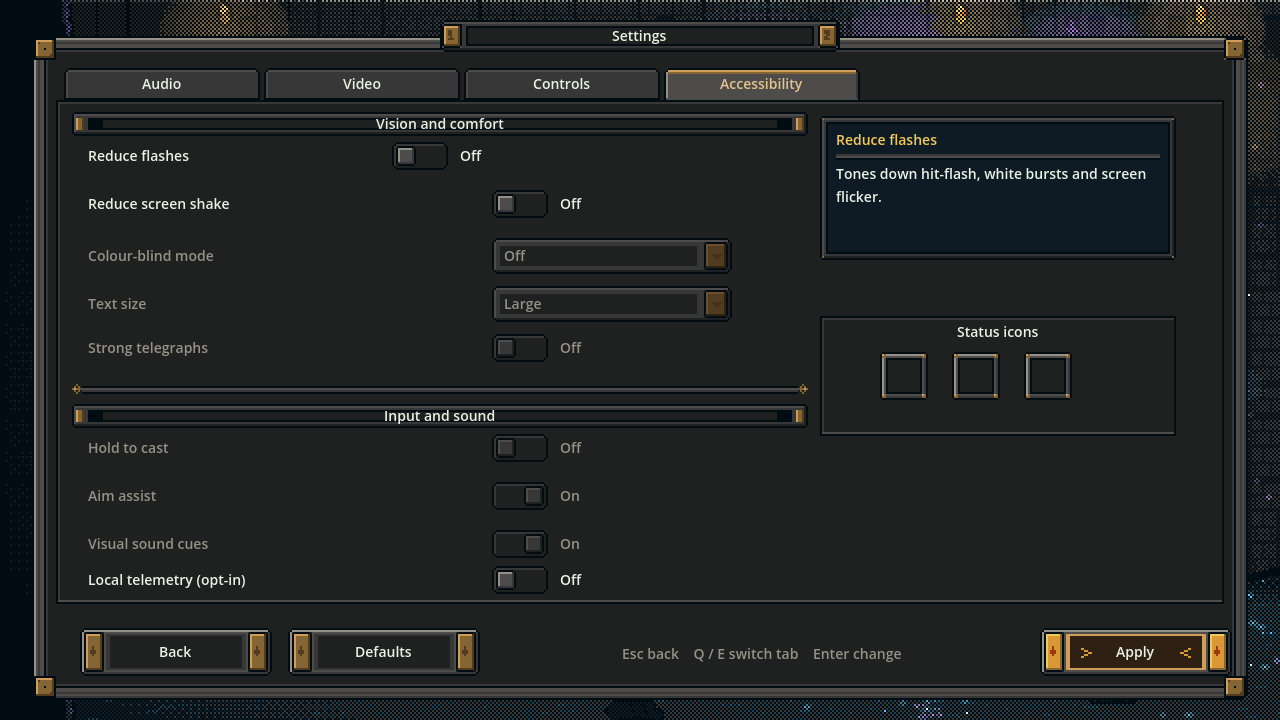
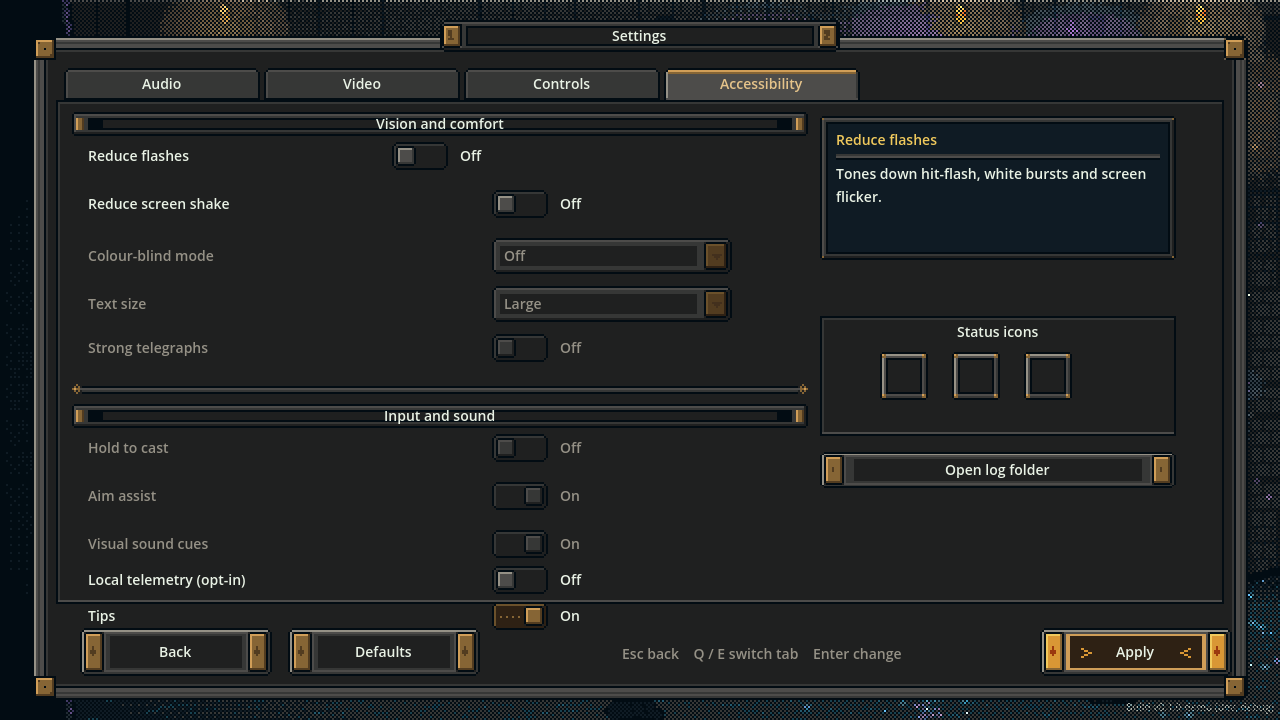
AD-185: UI matrix shots for every tip, pause Controls and Tips toggle; ONBOARDING.md

diff --git a/docs/demo/ONBOARDING.md b/docs/demo/ONBOARDING.md
@@ -1,0 +1,43 @@
+# Friends demo onboarding (AD-185, Gate G2)
+
+Goal of Gate G2: a new player starts, moves, dashes, casts, reads a telegraph, opens the editor and crafts one spell within about 5 minutes without help.
+
+## Step -> tip -> trigger
+
+| Step | Tip id | Trigger |
+| --- | --- | --- |
+| Start | `spells_are_runes` | Sigil Desk prelude (AD-130) is active and the editor is not open; the desk panel steps teach the first spell. |
+| Move, aim, cast, dash | `room1` | First fight room of a run (`sequence_index == 0`). Text shows the current bindings (move, cast, dash, aim). |
+| Read a telegraph | `telegraph` | First enemy windup. Shown for `onboarding_seconds.telegraph` (6 s, in `flavour_v1.json`), then `room1` returns if it was interrupted. |
+| Open the editor and craft | `spells_are_runes`, `workshop_empty_slot`, `test_on_dummy` | Desk panel steps; empty slot hint and the test-on-dummy hint in the workshop editor. |
+| First reward | `first_reward` | Room cleared and the reward is not collected yet. |
+| First workshop | `first_workshop` | Entering the workshop outside the prelude. |
+| Wet then lightning | `wet_try_lightning` | Reaction hint after the matching status in a fight. |
+
+Tip texts live in `world/data/flavour_v1.json` (`onboarding`, `onboarding_seconds`) and `i18n/`.
+
+## Audit outcome
+
+- Already existed: `room1`, `first_reward`, `first_workshop`, the hints (`workshop_empty_slot`, `test_on_dummy`, `wet_try_lightning`) and the AD-130 Sigil Desk prelude.
+- Added: binding-aware `room1` strip, `telegraph`, `spells_are_runes` pointer, the one-tip rule, Settings > Accessibility Tips on/off, and a Controls page reachable from the pause menu.
+- Fixed: the `room1` trigger waited for an `s1_r1` room, which `run_v2` does not have. It now fires on `sequence_index == 0`.
+
+## Rules
+
+- At most one tip is on screen.
+- Each tip shows once per profile (`stats.onboarding_seen`).
+- Settings > Accessibility > Tips on/off does not use tips up.
+- Controls opens from pause and reads the live bindings.
+- The new wording is proposed, not approved.
+
+## UI matrix shots
+
+```
+bash tools/ui_matrix.sh --states "tip_room1 tip_telegraph tip_wet_try_lightning tip_first_reward tip_first_workshop tip_workshop_empty_slot tip_test_on_dummy tip_spells_are_runes pause_controls settings_access" --sizes "1024x768 1280x720 1920x1080"
+```
+
+Shots are in `docs/ui/matrix/<size>/<state>.png` with contact sheets next to them. The `tip_*` states pin one tip on a debug build only.
+
+## Not done yet
+
+The 5-minute human test with a friend has not been run, so Gate G2 is not confirmed.

diff --git a/docs/README.md b/docs/README.md
@@ -18,6 +18,7 @@ Godot 4.7.1 stable (pinned) GL Compatibility M0–M3 playable prototypes are imp
 | [M4_validation.md](M4_validation.md) | M4 code, regression/stress/telemetry commands, observability boundaries and deferred acceptance |
 | [demo/README.md](demo/README.md) | AD-157 closed demo: Windows/Linux export commands, headless route check, tester opt-in logs and what to send back |
 | [demo/FEEDBACK_FORM.md](demo/FEEDBACK_FORM.md) | AD-184 friends feedback questions, F8 reports and how to send the reports folder |
+| [demo/ONBOARDING.md](demo/ONBOARDING.md) | AD-185 onboarding audit: step -> tip id -> trigger, Controls page, Tips toggle |
 | [artifacts.md](artifacts.md) | AD-143 run artifacts: data file, hooks, max held, sources, proposed numbers |
 | [meta_progress.md](meta_progress.md) | AD-145 meta progression: profile v2 schema, discoveries, milestone unlocks, Compendium |
 | [GDD_v1_conformance.md](GDD_v1_conformance.md) | GDD v1.0 rule → status (OK/GAP) → board row tracker for Round AD-R1 |

diff --git a/docs/demo/README.md b/docs/demo/README.md
@@ -47,6 +47,7 @@ Log folder (project name `ArcaneDungeon`; `config/use_custom_user_dir` is not se
 A `crash_*.txt` appears on the next opted-in launch after an unclean exit.
 
 Friends feedback form and F8 reports: [FEEDBACK_FORM.md](FEEDBACK_FORM.md).
+Onboarding audit, tip ids and triggers (Gate G2): [ONBOARDING.md](ONBOARDING.md).
 
 ## 6. Privacy
 Nothing is uploaded; there is no network code. Logs are written only when the tester opts in. They hold anonymous
